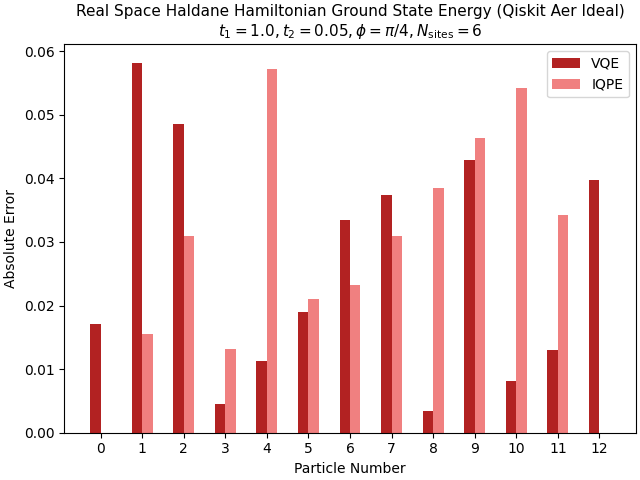
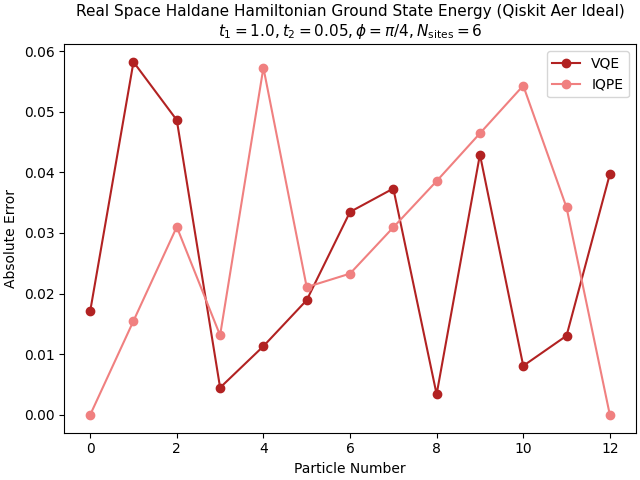
Changed slater error plots to line plots

diff --git a/scripts/haldane-model/real_space_simulated_ideal_slater.py b/scripts/haldane-model/real_space_simulated_ideal_slater.py
@@ -10,7 +10,7 @@ from joblib import Parallel, delayed
 # For real_space_iqpe function: Sampler is deprecated but IQPE in Qiskit Algorithms has not been updated to use SamplerV2 yet
 warnings.filterwarnings("ignore", category=DeprecationWarning)
 
-n_sites = 4
+n_sites = 6
 t1, t2, phi = 1.0, 0.05, np.pi/4
 spin = 2
 mapper = JordanWignerMapper()
@@ -52,16 +52,14 @@ file_path = os.path.join(os.getcwd(), "..", "..", "plots/haldane-model/real-spac
 plt.savefig(file_path)
 
 x = np.arange(spin*n_sites+1)
-width = 0.25
 fig, ax = plt.subplots(layout='constrained')
 
-ax.bar(x, data["vqe_error"].values(), width, label="VQE", color="firebrick")
-ax.bar(x+width, data["iqpe_error"].values(), width, label="IQPE", color="lightcoral")
+ax.plot(x, data["vqe_error"].values(), 'o-', label="VQE", color="firebrick")
+ax.plot(x, data["iqpe_error"].values(), 'o-', label="IQPE", color="lightcoral")
 
 ax.set_xlabel("Particle Number")
 ax.set_ylabel("Absolute Error")
 ax.set_title("Real Space Haldane Hamiltonian Ground State Energy (Qiskit Aer Ideal)\n$t_1="+str(t1)+", t_2="+str(t2)+", \\phi=\\pi/"+str(int(np.pi/phi))+", N_{\\text{sites}}="+str(n_sites)+"$", fontsize=11)
-ax.set_xticks(x+width/2, range(spin*n_sites+1))
 ax.legend()
 
 file_path = os.path.join(os.getcwd(), "..", "..", "plots/haldane-model/real-space/"+str(n_sites)+"-sites/simulated-ideal-slater-error.png")
